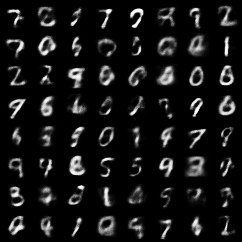
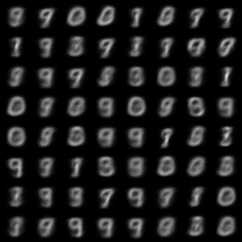
create my gumbel softmax

diff --git a/vae_gumbel_softmax.py b/vae_gumbel_softmax.py
@@ -15,7 +15,7 @@ from torchvision.utils import save_image
 parser = argparse.ArgumentParser(description='VAE MNIST Example')
 parser.add_argument('--batch-size', type=int, default=128, metavar='N',
                     help='input batch size for training (default: 128)')
-parser.add_argument('--epochs', type=int, default=10, metavar='N',
+parser.add_argument('--epochs', type=int, default=20, metavar='N',
                     help='number of epochs to train (default: 10)')
 parser.add_argument('--temp', type=float, default=1.0, metavar='S',
                     help='tau(temperature) (default: 1.0)')
@@ -115,7 +115,7 @@ class VAE_gumbel(nn.Module):
 latent_dim = 20
 categorical_dim = 10  # one-of-K vector
 
-temp_min = 0.3
+temp_min = 0.1
 ANNEAL_RATE = 0.2
 
 model = VAE_gumbel(args.temp)
